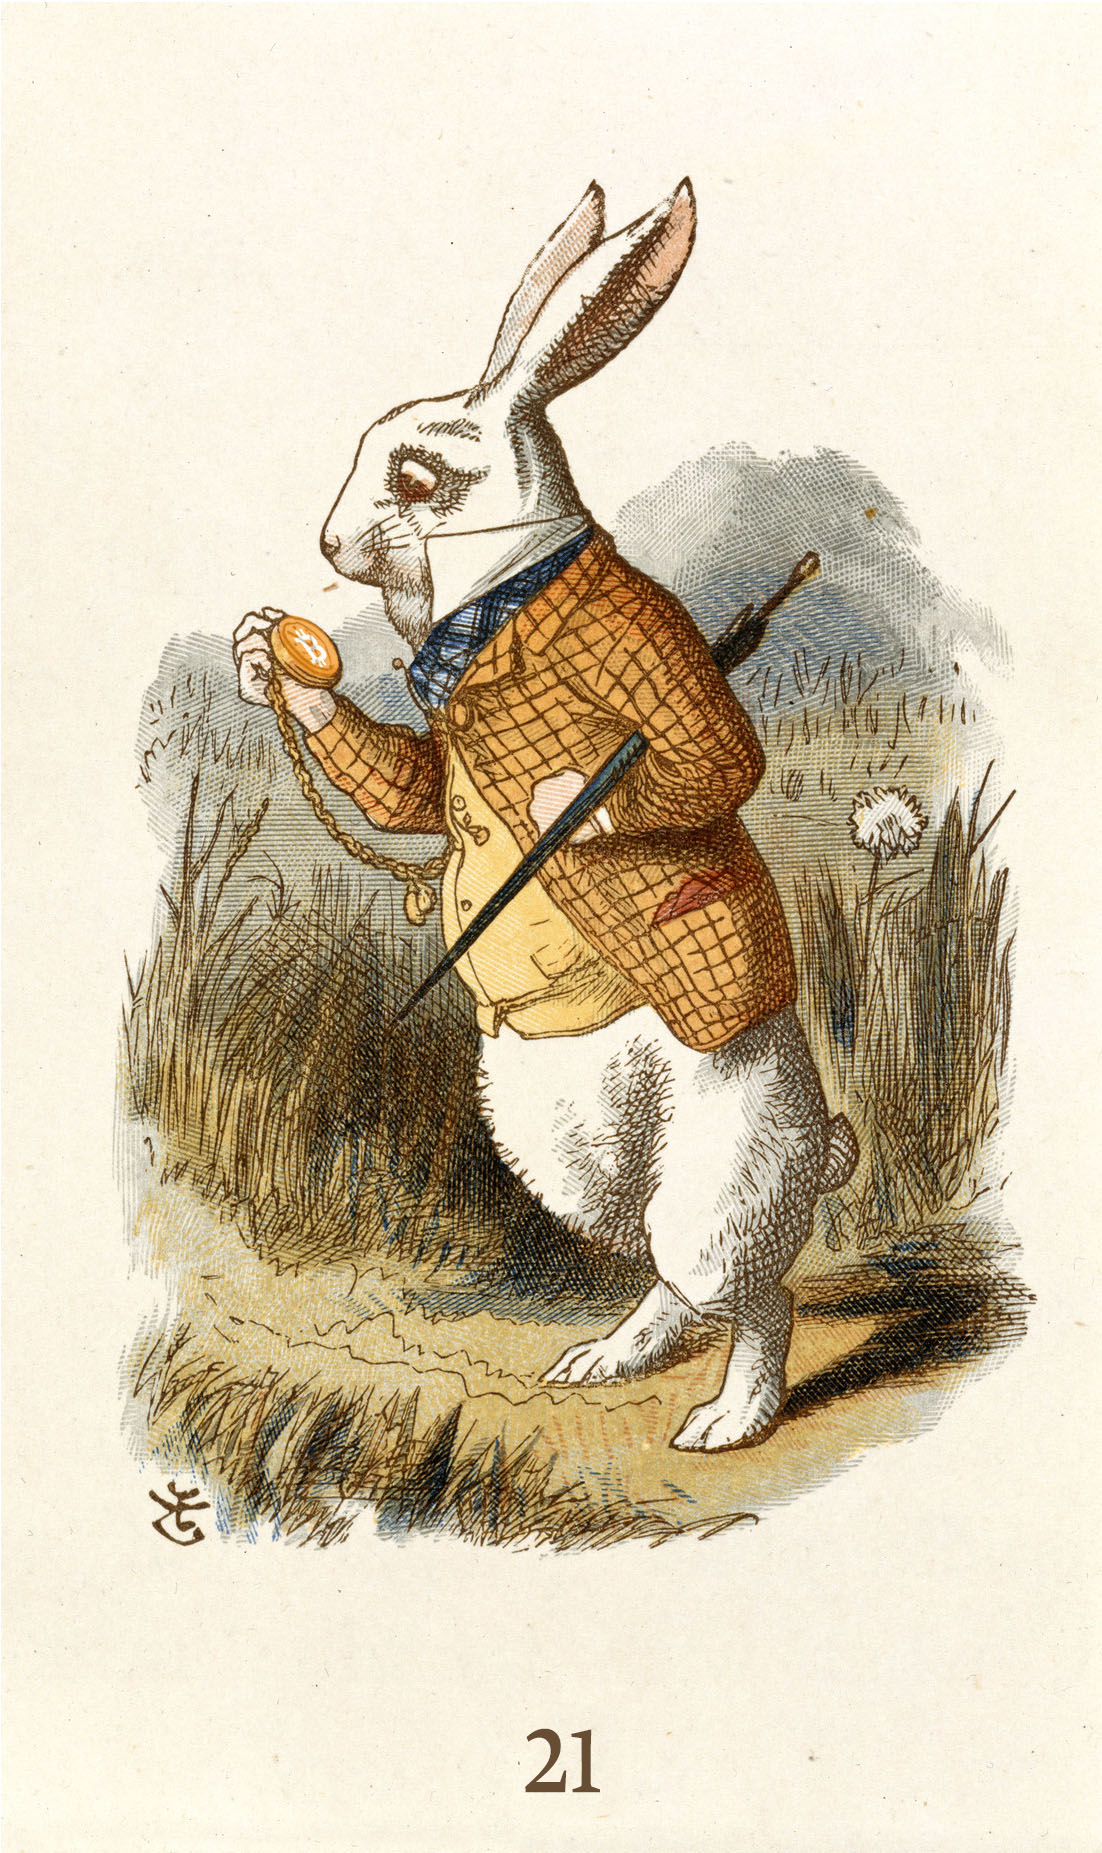
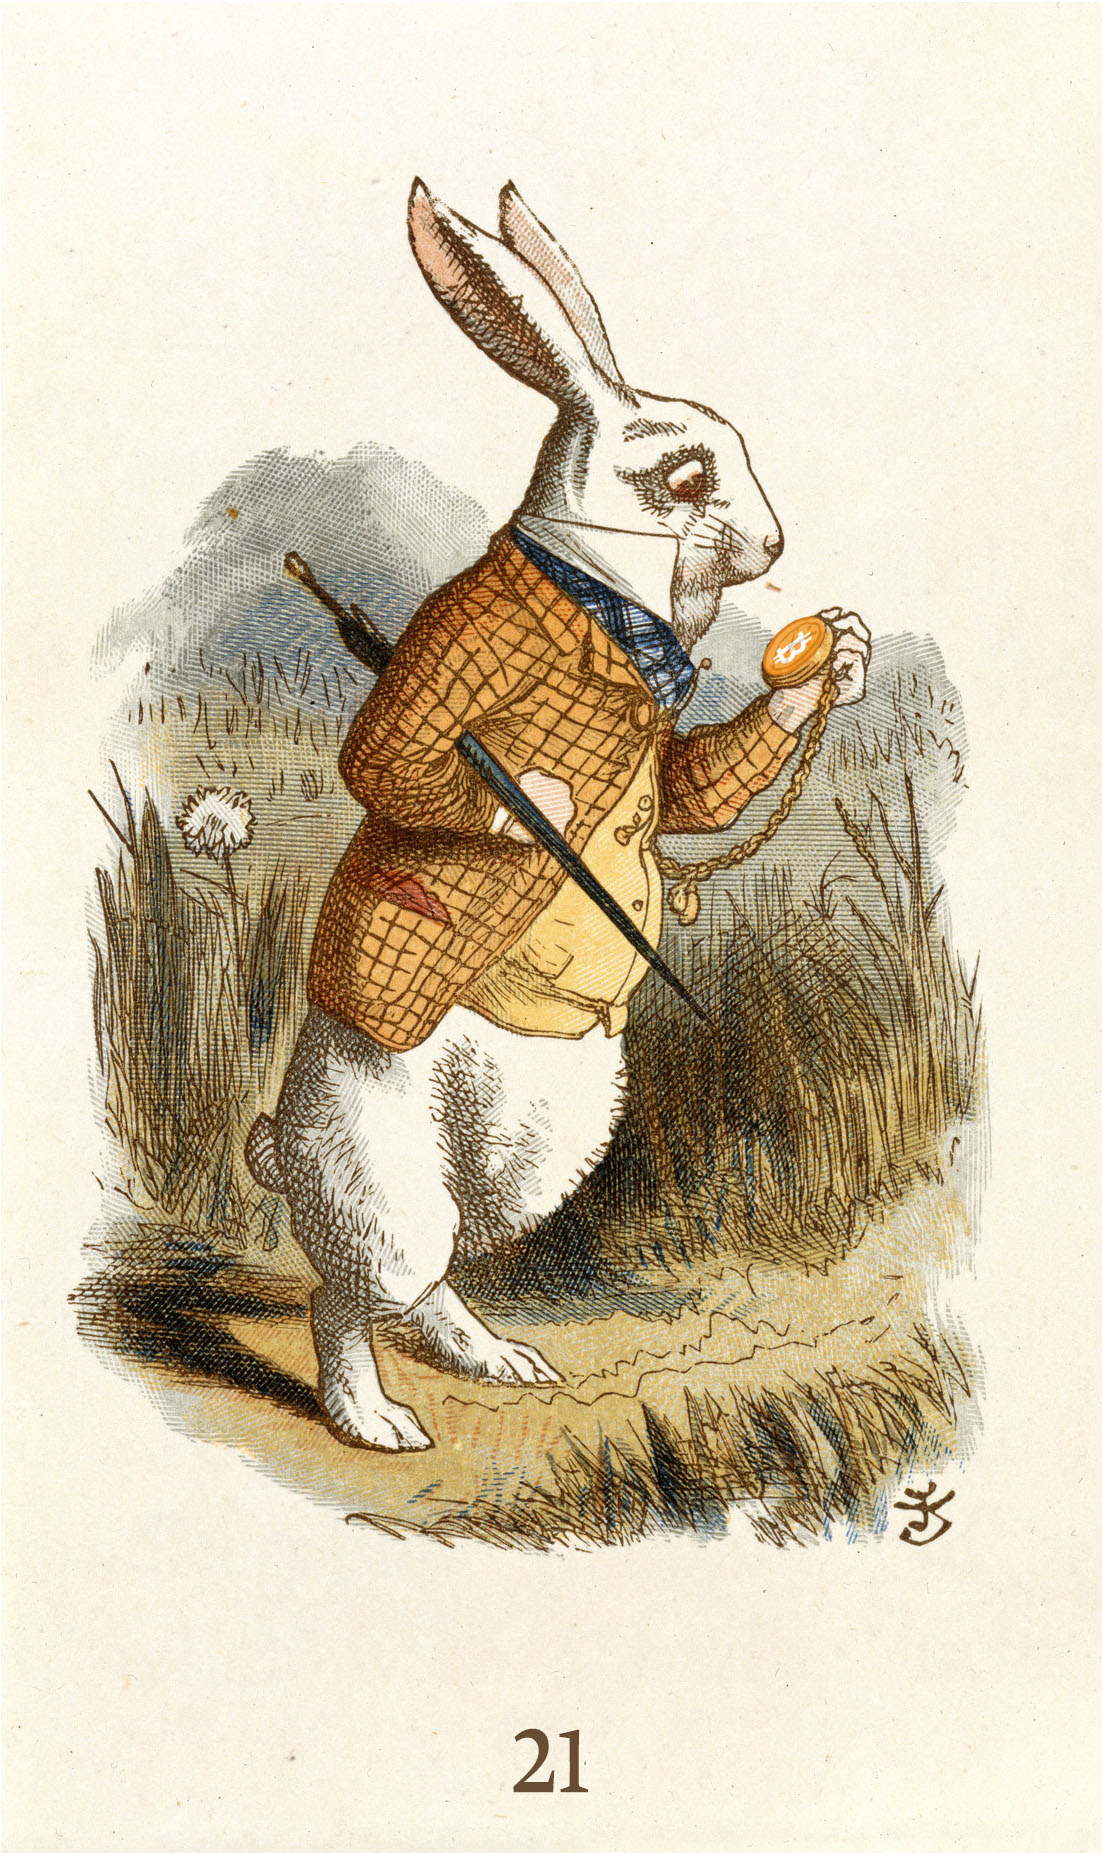
[21 Lessons] New cover (#47)
* Flip cover

* Add cover for twitter card

diff --git a/bitcoin/lessons/index.md b/bitcoin/lessons/index.md
@@ -5,7 +5,7 @@ subtitle: What I've Learned from Falling Down the Bitcoin Rabbit Hole
 category: bitcoin
 description: An exploration of questions and lessons learned from falling down the Bitcoin rabbit hole.
 quote: "\"Oh, you foolish Alice!\" she said again, \"how can you learn lessons in here? Why, there's hardly room for you, and no room at all for any lesson-books!\""
-image: /assets/images/21-lessons-cover-rabbit.jpg
+image: /assets/images/21-lessons-twitter-cover.jpg
 ---
 
 [![21 Lessons - What I've Learned from Falling Down the Bitcoin Rabbit Hole](/assets/images/21-lessons-cover-rabbit.jpg)][preface]
